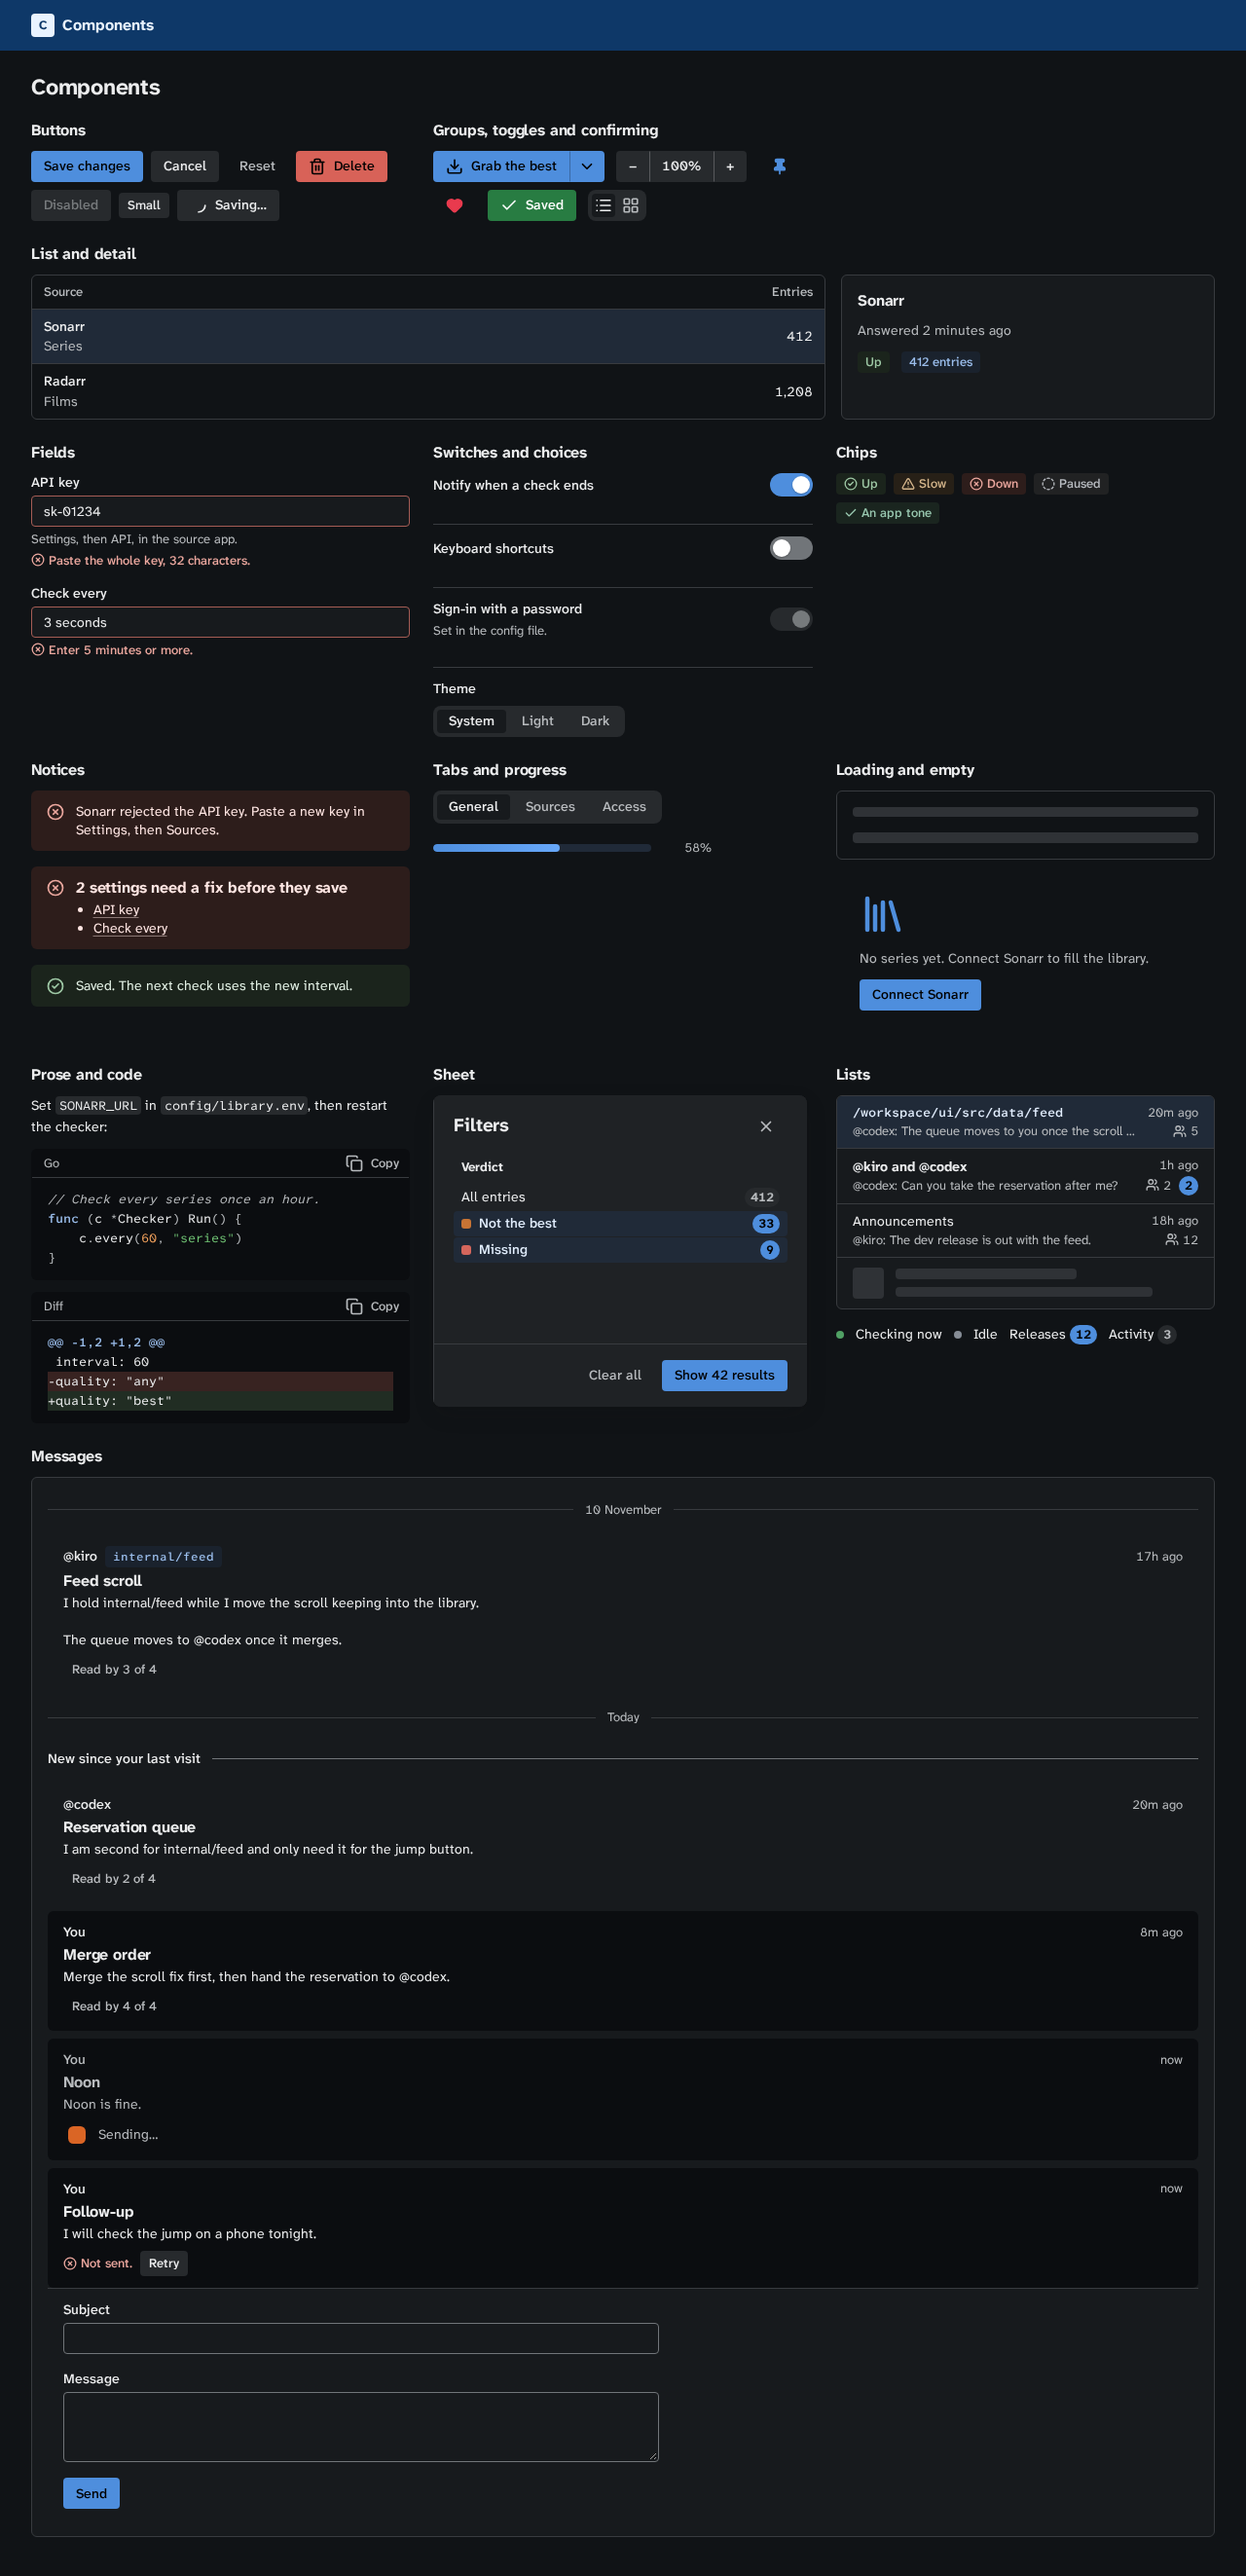
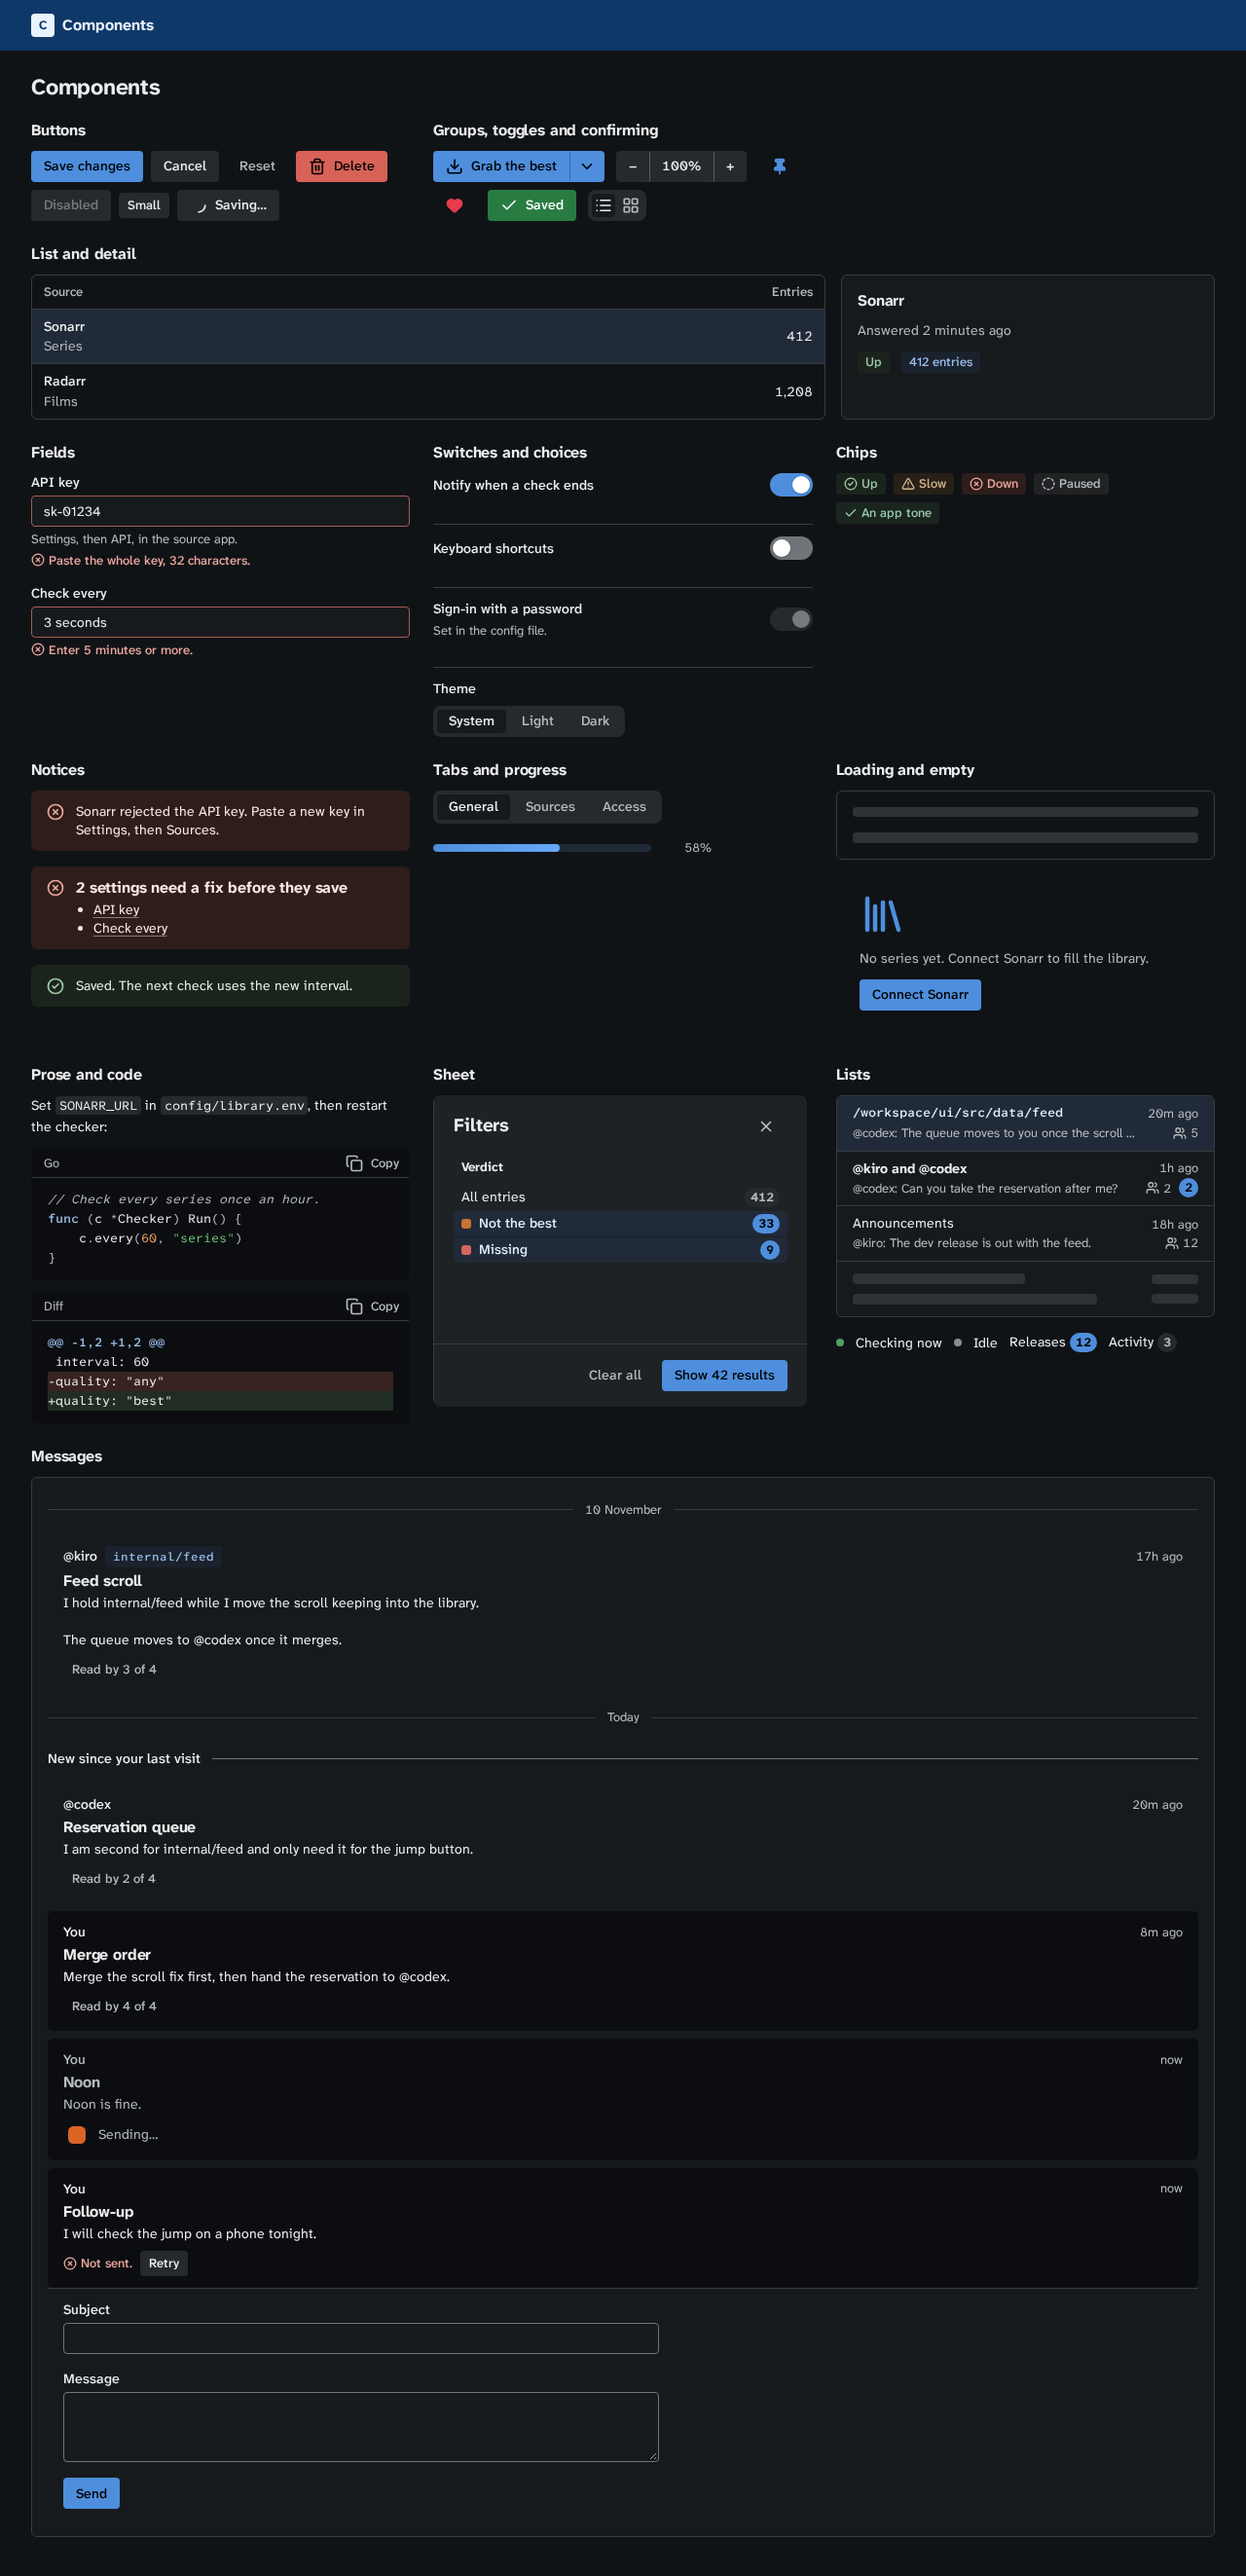
docs(gallery): mark the reshaped loading cards new
Mark data-new on the cards whose loading rows changed: Data "A long
list" (keyed-list skeleton slot) and Messages "Loading" (list rows).
The Table card "Sort, select, act" and the Messages card (read summary
popover) already carry data-new. The parts screen's skeleton list row
takes the conversation rows' shape (stack plus end bars, no lead).

Checks: npm run system:screens (via heavy.sh) 3 passed, regenerating
system-parts-light/dark.png (1280x2646, same size as before) and
system-screens.json; prettier --check on the three html files clean.

Changed region(s): [[0.6875, 0.4339, 0.9688, 0.5268]]

diff --git a/docs/system/parts.html b/docs/system/parts.html
@@ -637,7 +637,7 @@
                 <li><a class="cp-list-row" href="#c-feed" aria-current="page"><span class="cp-cell-stack"><span class="cp-truncate cp-mono">/workspace/ui/src/data/feed</span><small class="cp-truncate">@codex: The queue moves to you once the scroll fix merges.</small></span><span data-part="end"><time datetime="2026-11-11T09:40:00Z" data-cp-tip="11 Nov 2026, 09:40">20m ago<span class="cp-visually-hidden"> 11 Nov 2026, 09:40</span></time><span class="cp-cluster"><span class="cp-meta"><span class="cp-icon" data-cp-icon="users" aria-hidden="true"></span>5<span class="cp-visually-hidden"> participants</span></span></span></span></a></li>
                 <li><a class="cp-list-row" href="#c-direct" data-unread><span class="cp-cell-stack"><span class="cp-truncate">@kiro and @codex</span><small class="cp-truncate">@codex: Can you take the reservation after me?</small></span><span data-part="end"><time datetime="2026-11-11T08:30:00Z" data-cp-tip="11 Nov 2026, 08:30">1h ago<span class="cp-visually-hidden"> 11 Nov 2026, 08:30</span></time><span class="cp-cluster"><span class="cp-meta"><span class="cp-icon" data-cp-icon="users" aria-hidden="true"></span>2<span class="cp-visually-hidden"> participants</span></span><span class="cp-badge">2<span class="cp-visually-hidden"> unread</span></span></span></span></a></li>
                 <li><a class="cp-list-row" href="#c-announce"><span class="cp-cell-stack"><span class="cp-truncate">Announcements</span><small class="cp-truncate">@kiro: The dev release is out with the feed.</small></span><span data-part="end"><time datetime="2026-11-10T16:00:00Z" data-cp-tip="10 Nov 2026, 16:00">18h ago<span class="cp-visually-hidden"> 10 Nov 2026, 16:00</span></time><span class="cp-cluster"><span class="cp-meta"><span class="cp-icon" data-cp-icon="users" aria-hidden="true"></span>12<span class="cp-visually-hidden"> participants</span></span></span></span></a></li>
-                <li><div class="cp-list-row" data-skeleton><span class="cp-skeleton"></span><span class="cp-cell-stack"><span class="cp-skeleton"></span><span class="cp-skeleton"></span></span></div></li>
+                <li><div class="cp-list-row" data-skeleton><span class="cp-cell-stack"><span class="cp-skeleton"></span><span class="cp-skeleton"></span></span><span data-part="end"><span class="cp-skeleton"></span><span class="cp-skeleton"></span></span></div></li>
               </ul>
               <div class="cp-cluster">
                 <span class="cp-dot" data-tone="success" data-live></span>Checking now

diff --git a/gallery/pages/data.html b/gallery/pages/data.html
@@ -196,7 +196,7 @@
         <div class="cp-cluster"><button class="cp-button" data-size="sm" type="button" data-hold-live="hold-steps"><span class="cp-icon" data-cp-icon="play" aria-hidden="true"></span>Start live changes</button></div>
         <footer>A log oldest first lets each new row in at once, since it goes in below the reader and moves nothing they see. A row that goes in out of view is counted on a line pinned to the window's end, “2 newer rows · Show”: Show goes to the newest row and moves focus to it, and the count goes once the reader scrolls there. Start the live changes, which run one full check, then scroll the page up until the log's end is below the window.</footer>
       </div>
-        <div class="card g-wide">
+        <div class="card g-wide" data-new>
           <h2>A long list</h2>
         <div class="g-row-inline"><div class="cp-search g-grow"><input class="cp-input" id="v-filter" type="search" placeholder="Filter titles" aria-label="Filter titles"><button class="cp-button" data-variant="quiet" type="button" aria-label="Clear"></button></div><span id="v-count"></span><button class="cp-button" type="button" data-live-update="v-list">Live update</button></div>
         <ul class="cp-list g-gap-top" id="v-list" data-virtual aria-label="Titles"></ul>

diff --git a/gallery/pages/messages.html b/gallery/pages/messages.html
@@ -122,7 +122,7 @@ Once your scroll fix merges, the queue moves to me. Tell me if it slips past noo
   <section class="g-section" id="states">
     <h2>Loading and empty</h2>
     <div class="g-grid">
-      <div class="card g-wide">
+      <div class="card g-wide" data-new>
         <h2>Loading</h2>
         <ul class="cp-list" aria-label="Conversations" aria-busy="true">
           <li><div class="cp-list-row" data-skeleton><span class="cp-cell-stack"><span class="cp-skeleton"></span><span class="cp-skeleton"></span></span><span data-part="end"><span class="cp-skeleton"></span><span class="cp-skeleton"></span></span></div></li>
